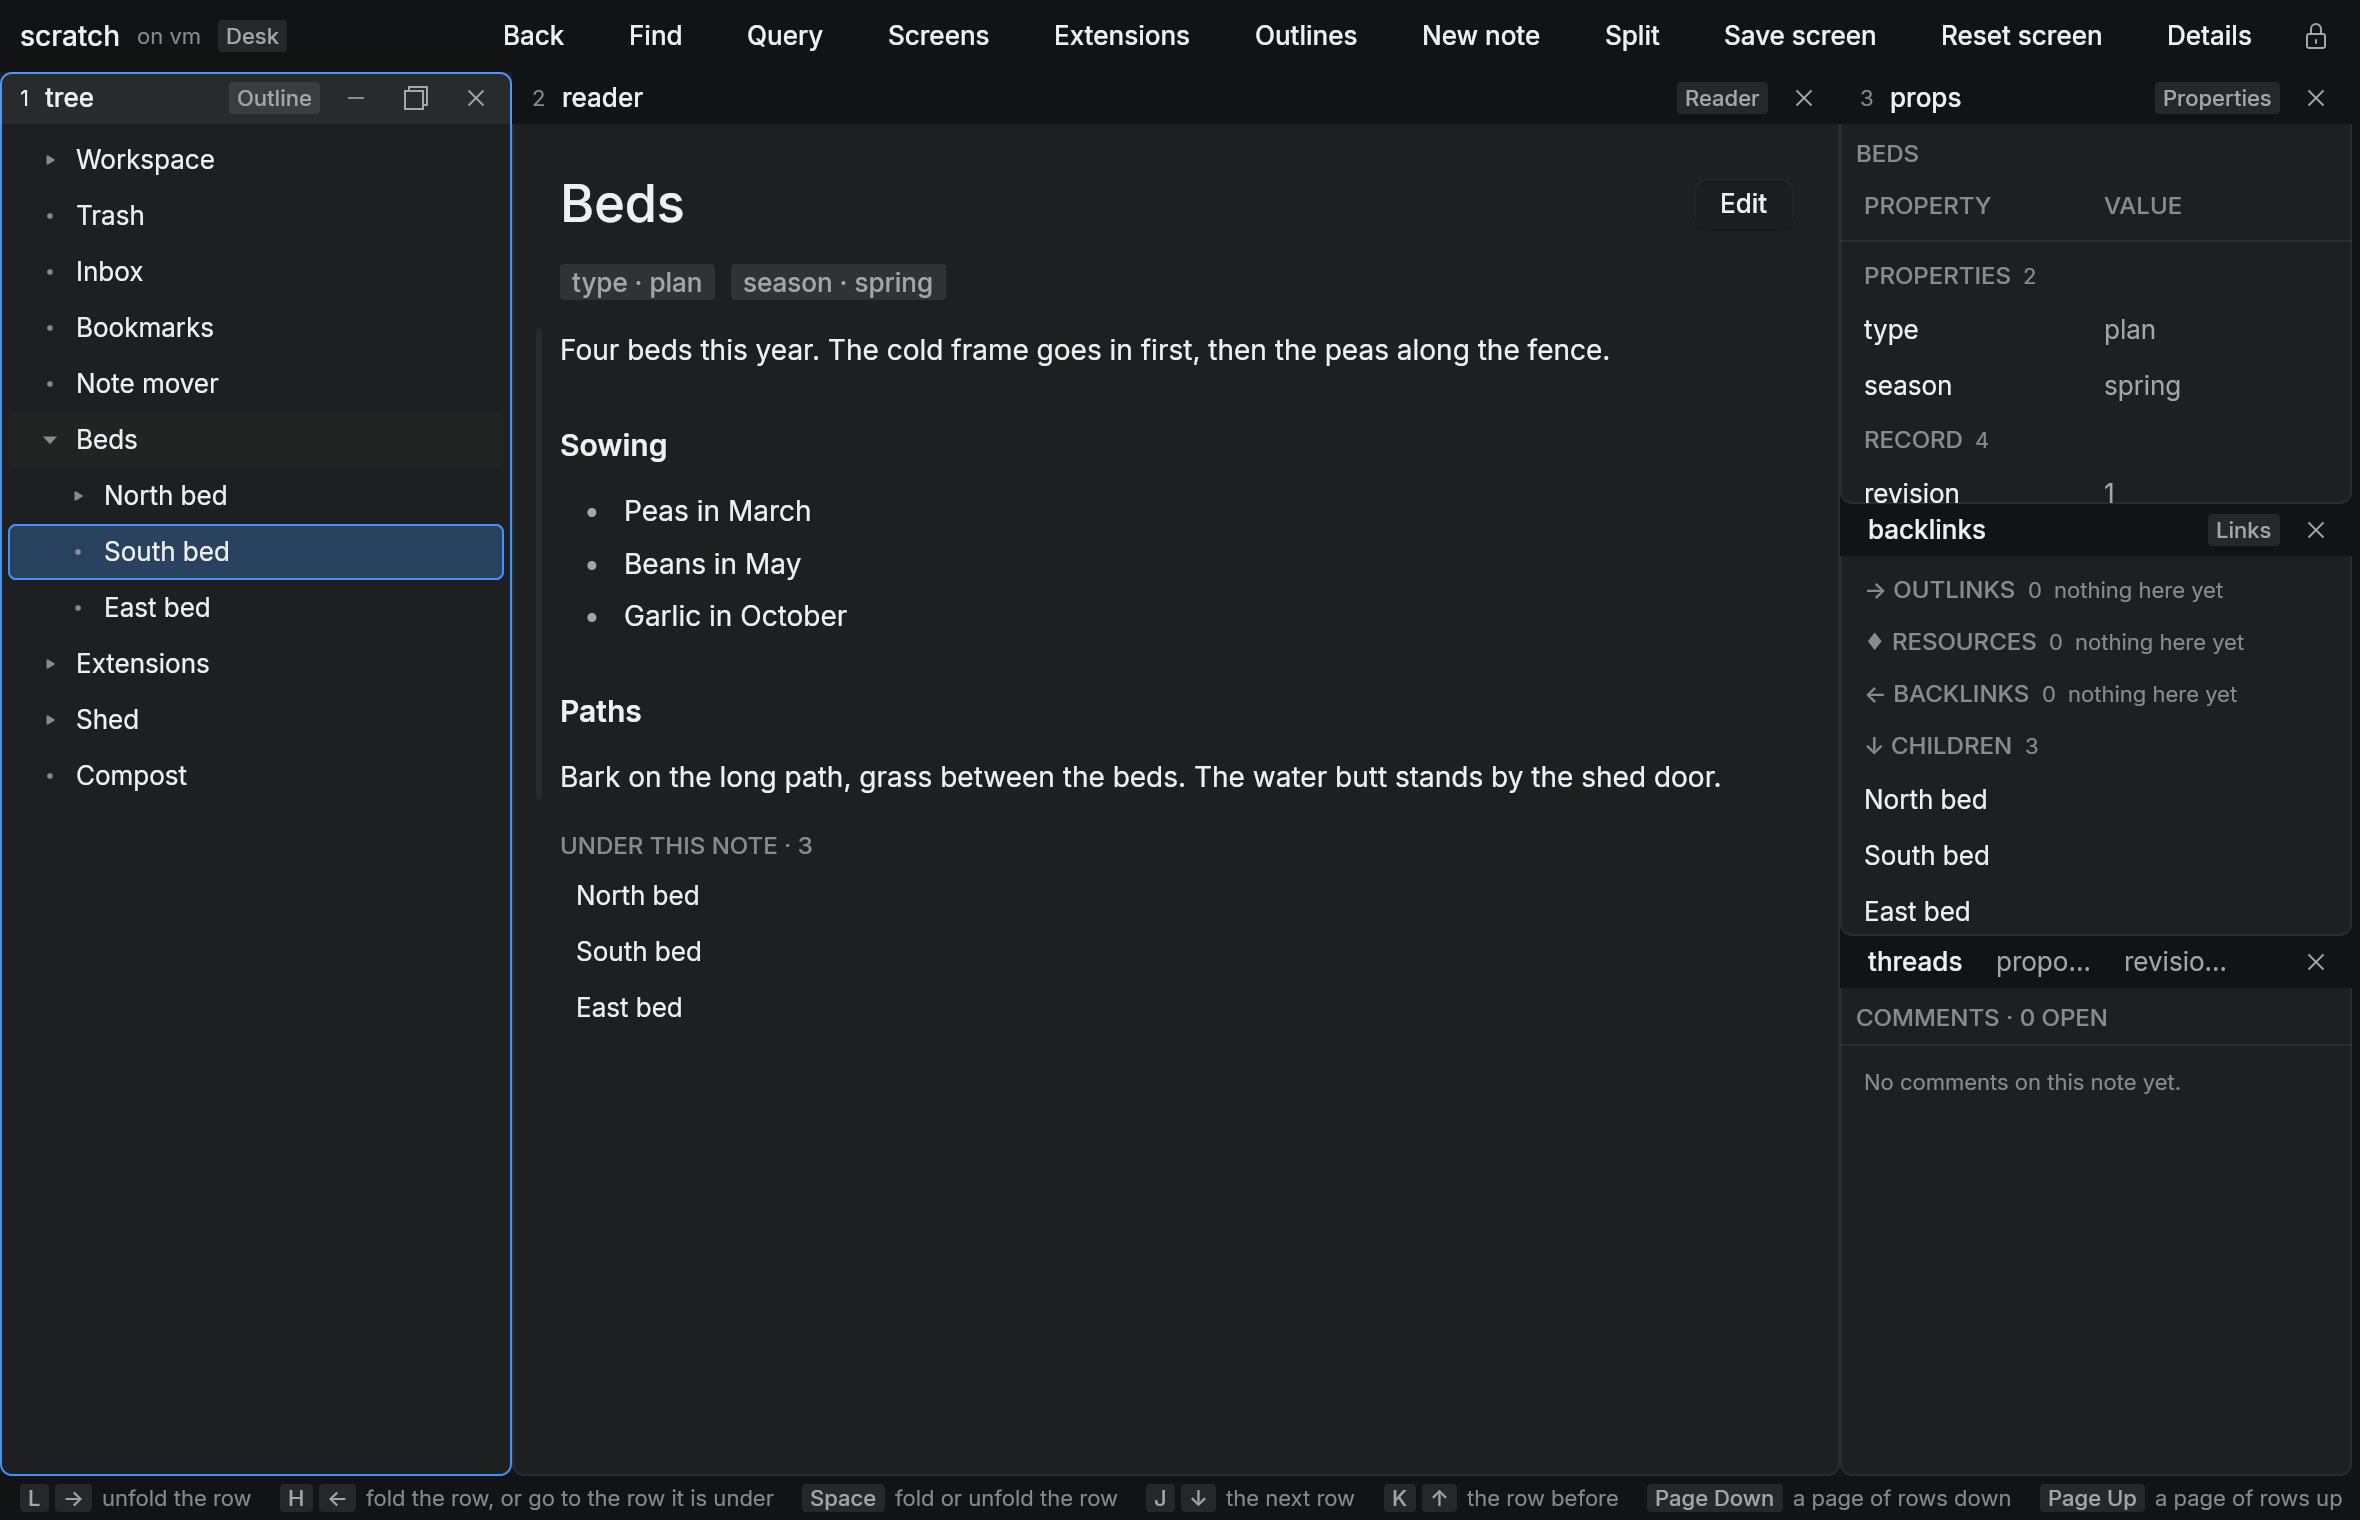
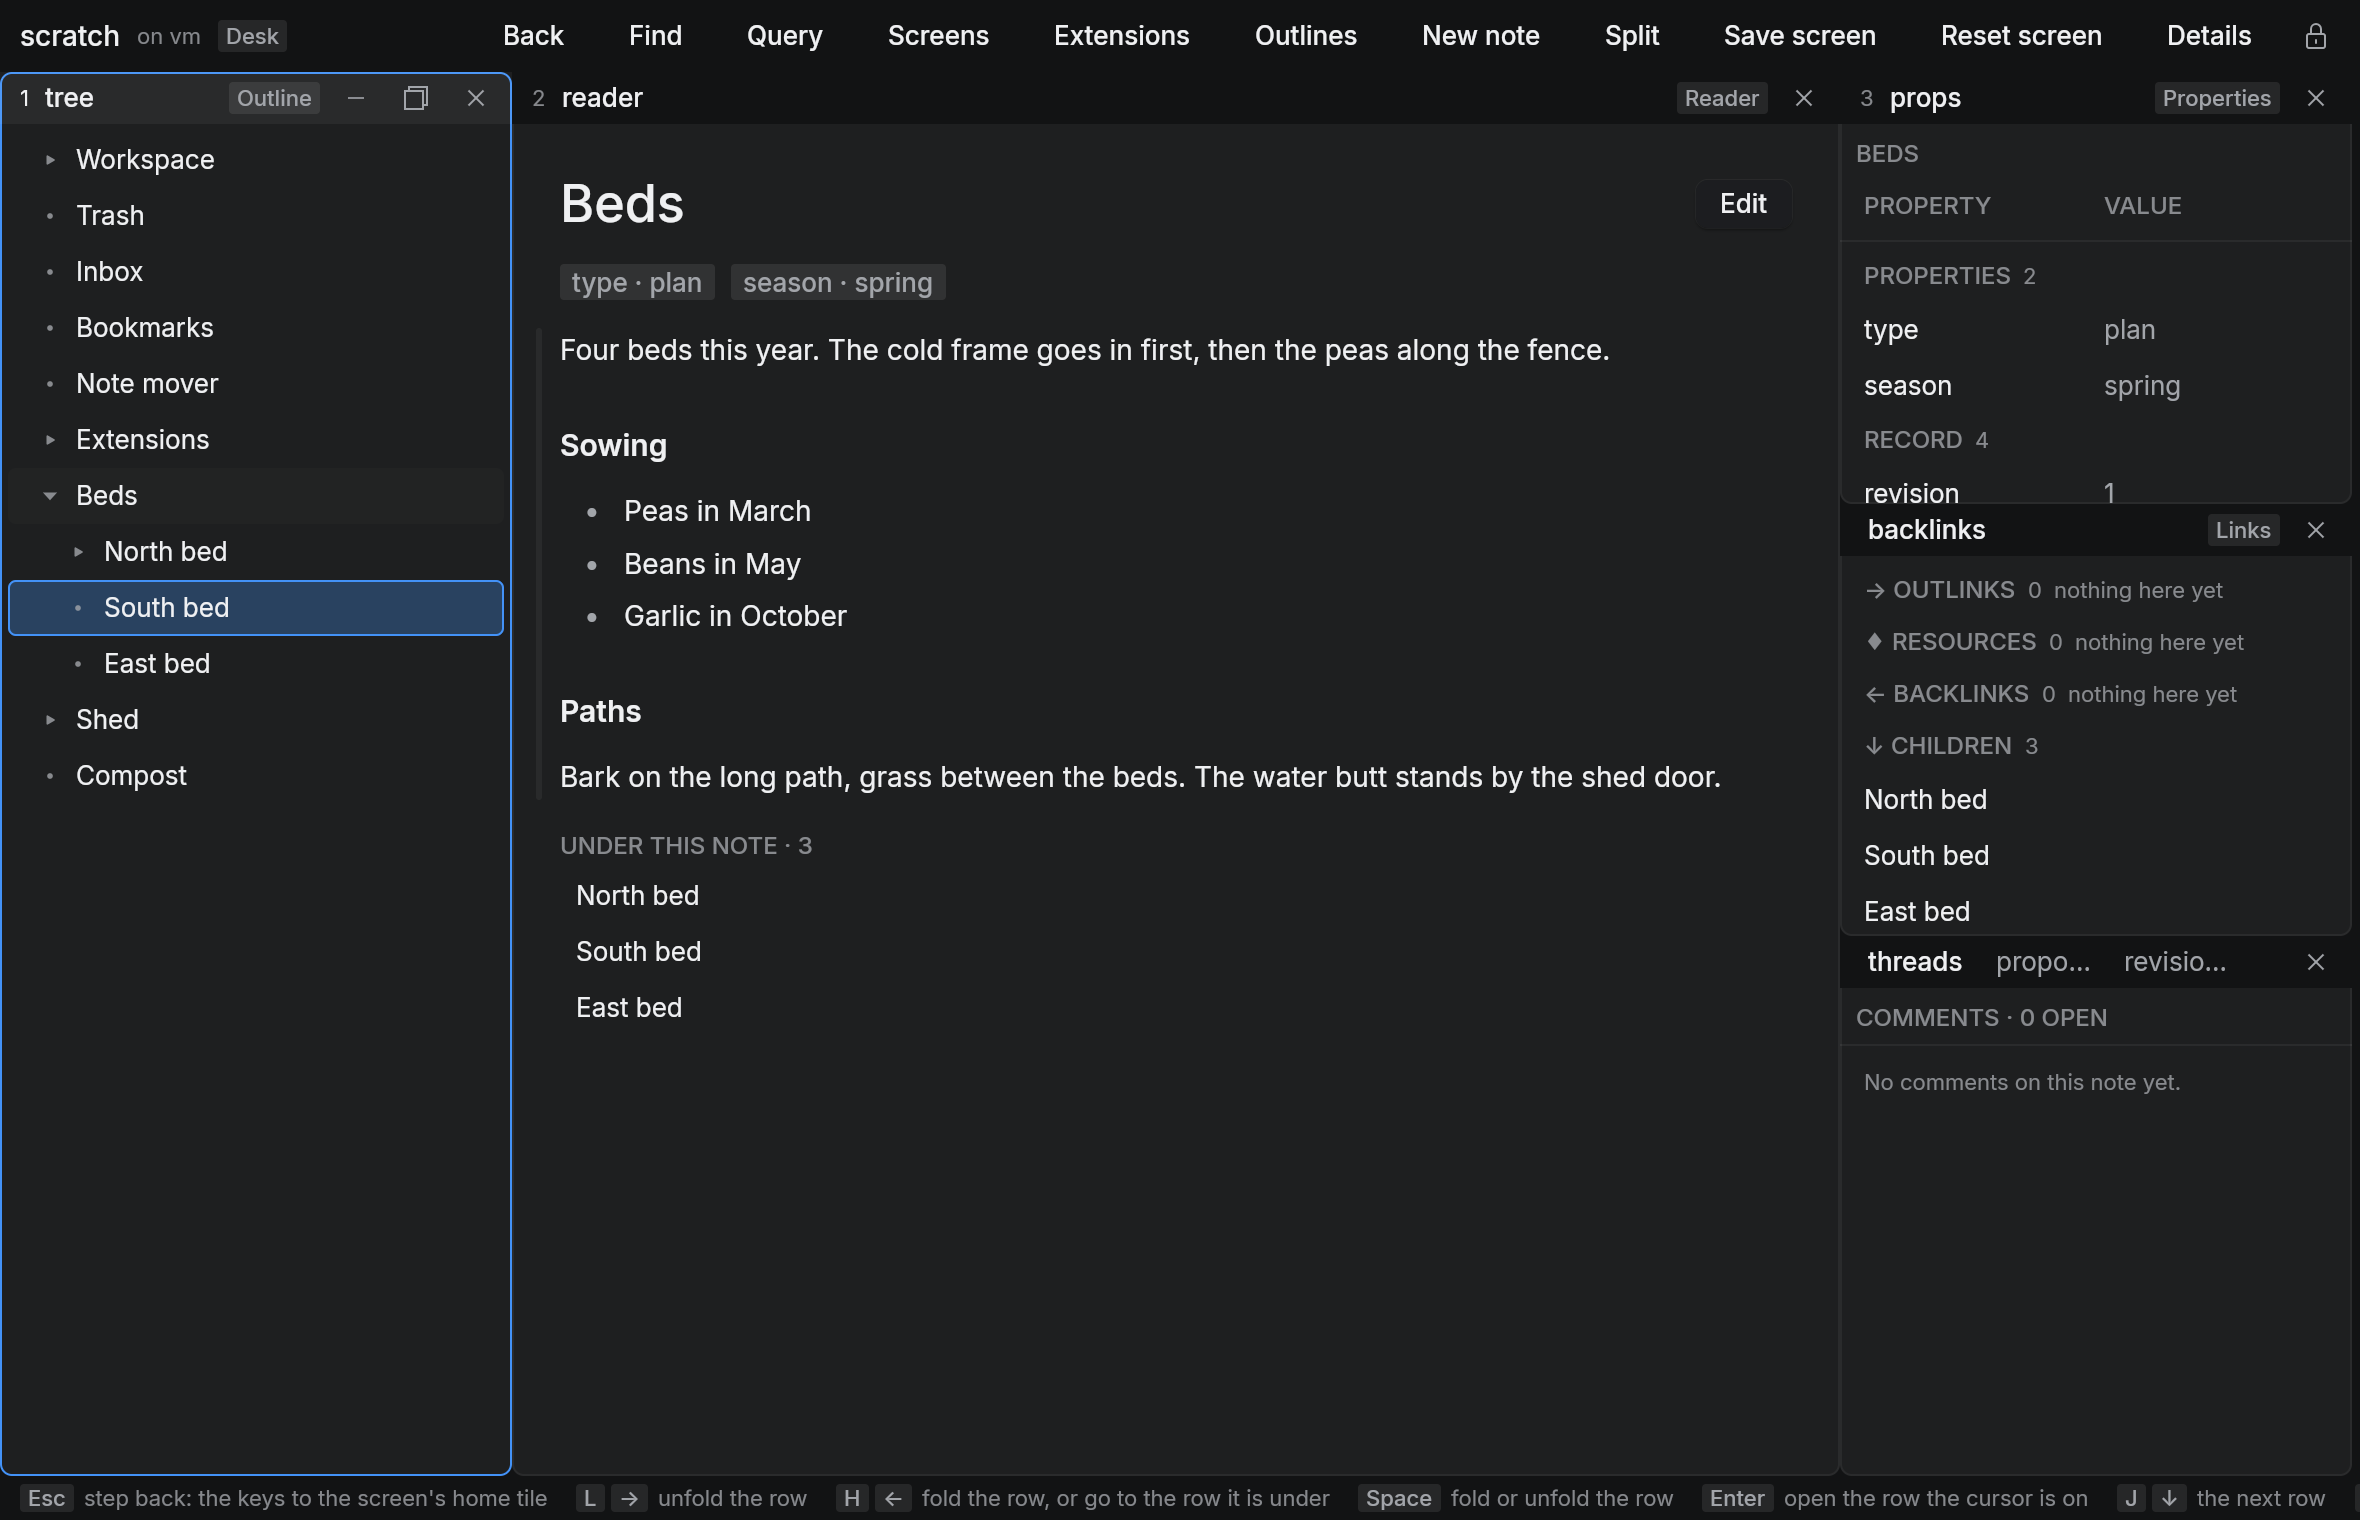
native K1: the cursor scene finds its note by its words, and its picture is drawn again
The scene counted the beds as the fourth row from the end of the tree. The
service writes a new outline's Extensions page in its own time, so on a
second scratch host the scene opened that page instead. It now finds the
beds by their words in the bar, and the tree's cursor starts from the open
note's row. The picture is the same window with the hint row as it is now.

Claude-Session: https://claude.ai/code/session_01YahWSsU53UQFjh3cbq4VFn

Changed region(s): [[0.0309, 0.9586, 0.897, 1.0], [0.0, 0.2783, 0.2165, 0.4638], [0.928, 0.9586, 0.9898, 1.0]]

diff --git a/packages/native/scenes/cursor.seed.ts b/packages/native/scenes/cursor.seed.ts
@@ -1,6 +1,6 @@
 // The made-up notes the `cursor` scene moves through by key: an allotment's beds, a bed with rows under it, a shed.
 // Written into a scratch outline (never a real one: the socket is a scratch host's, named outright), after the
-// notes a new outline starts with, so the scene finds the beds fourth from the end of the tree.
+// notes a new outline starts with. The scene finds the beds by their words, never by their place in the tree.
 //   bun scenes/cursor.seed.ts <a scratch host's socket> <outline>
 import { OutlinerClient } from "../../outliner/src/client";
 
